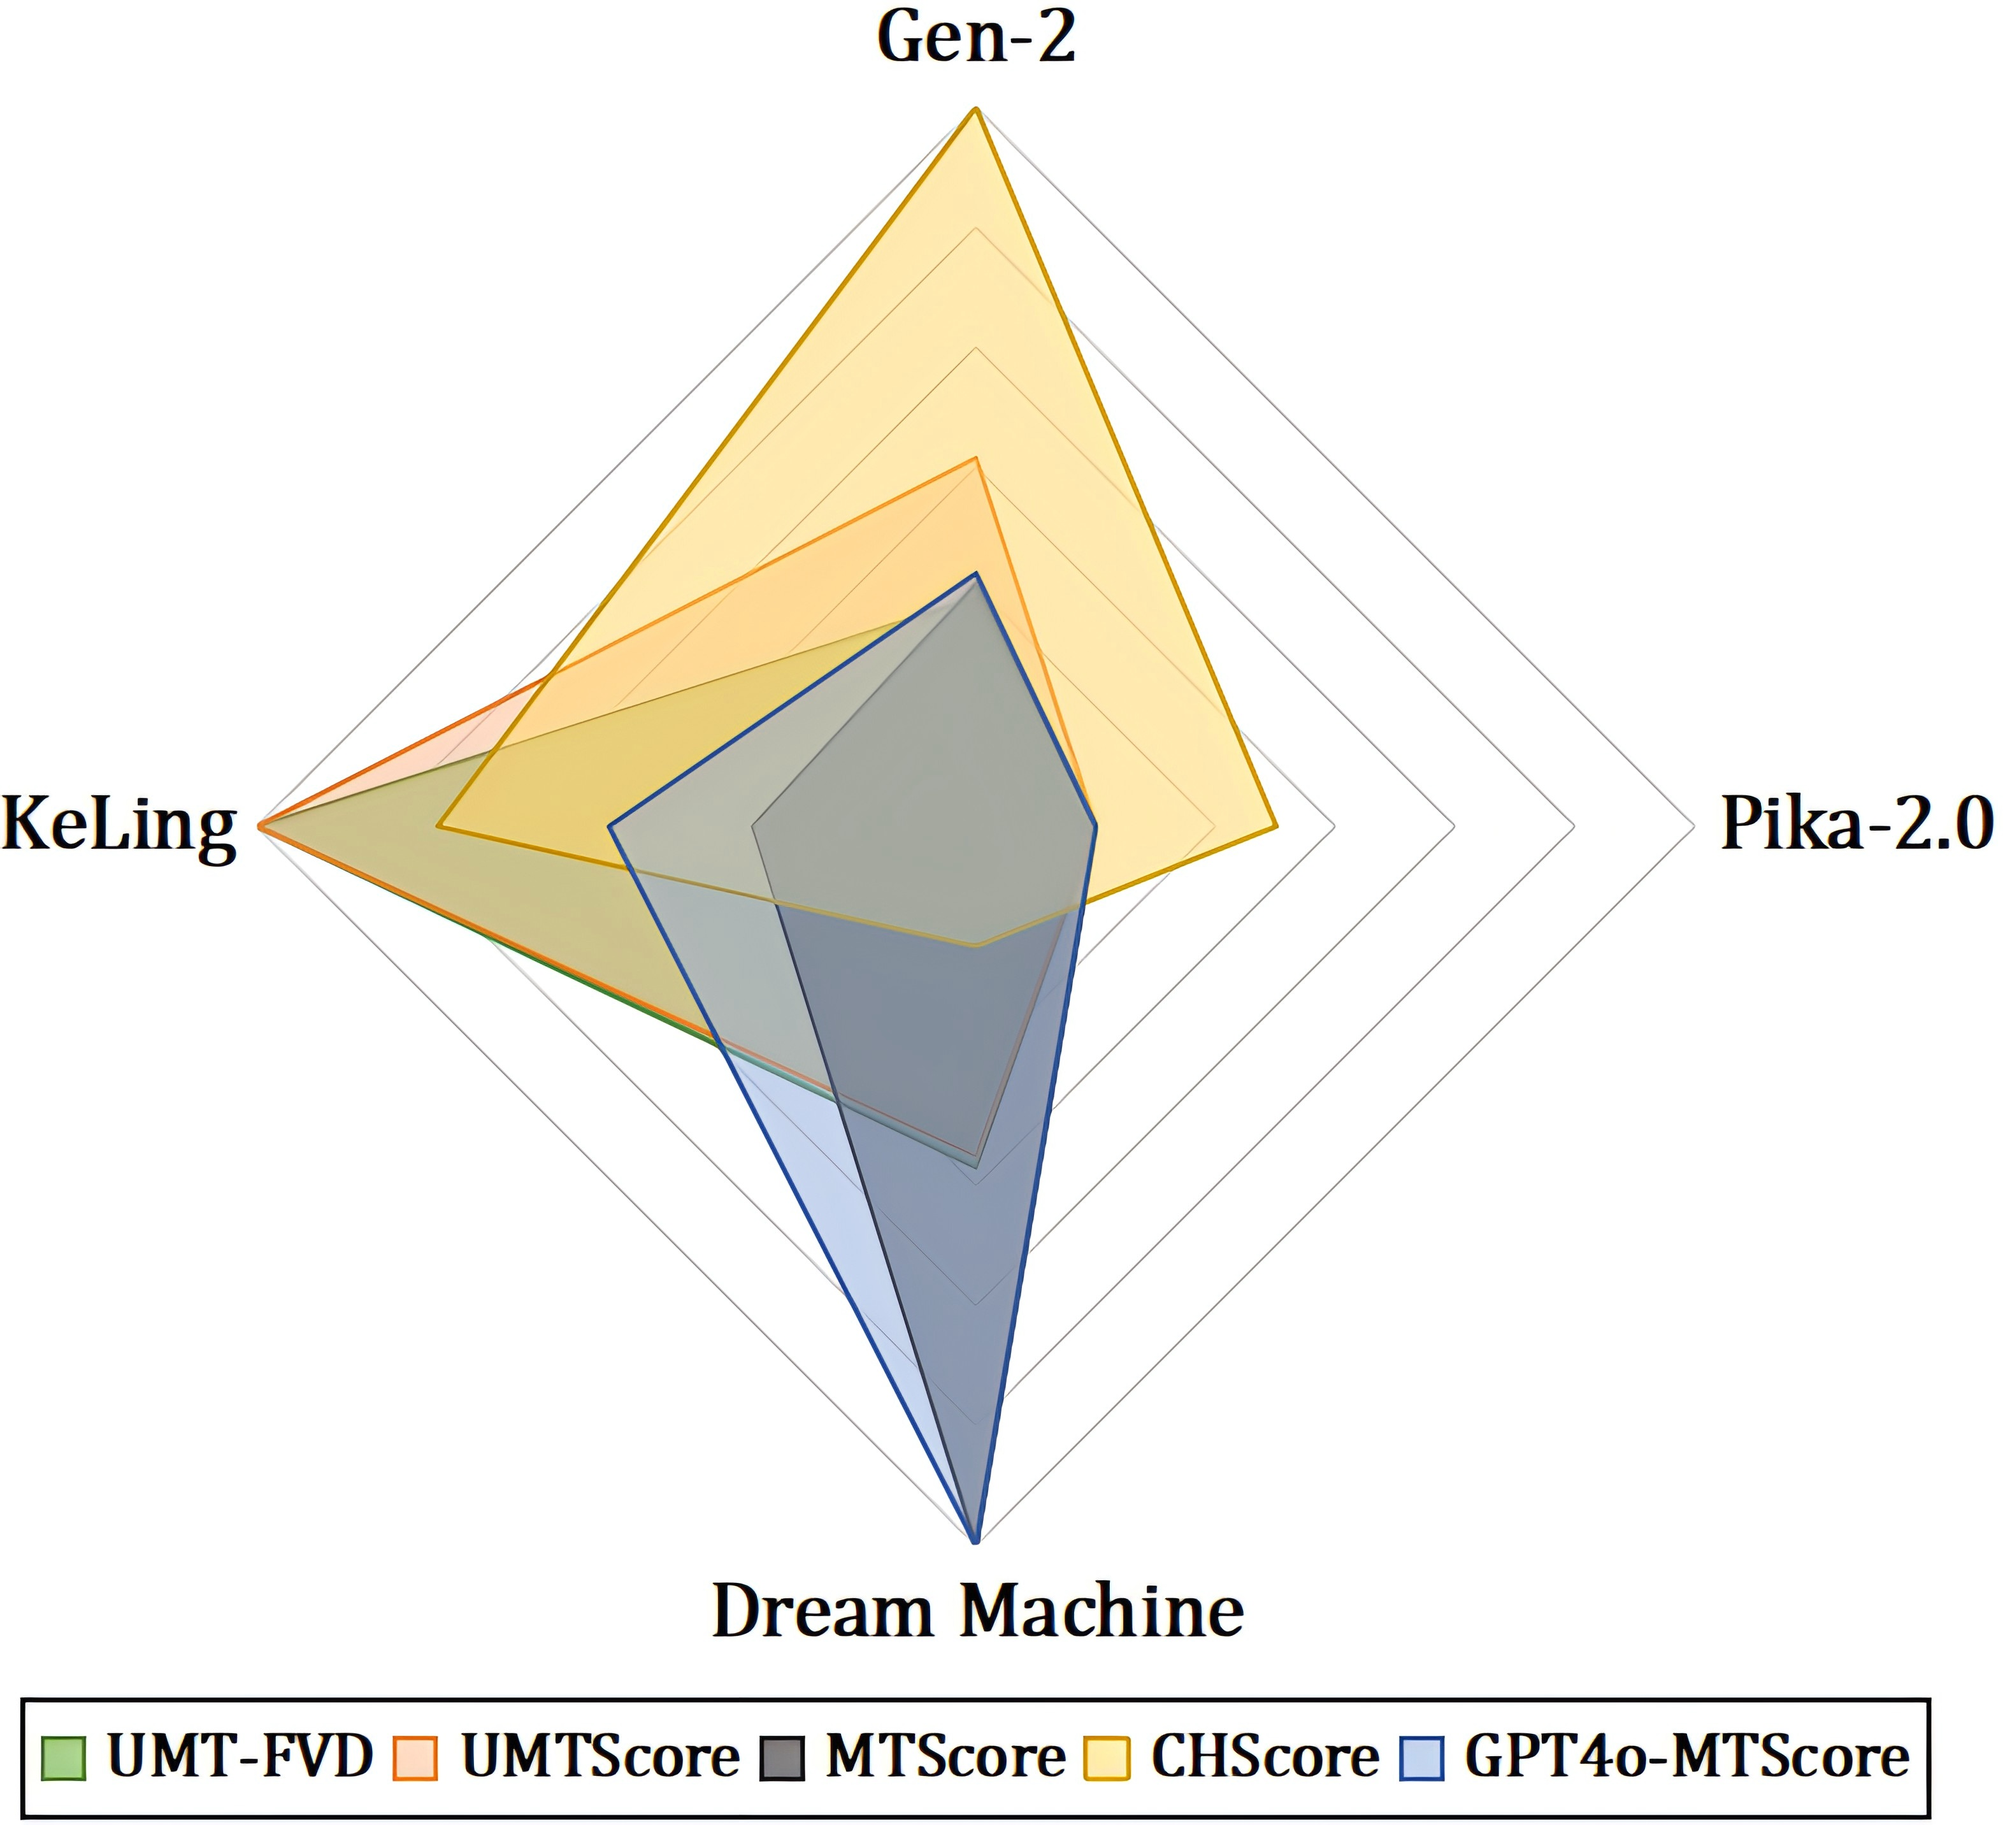
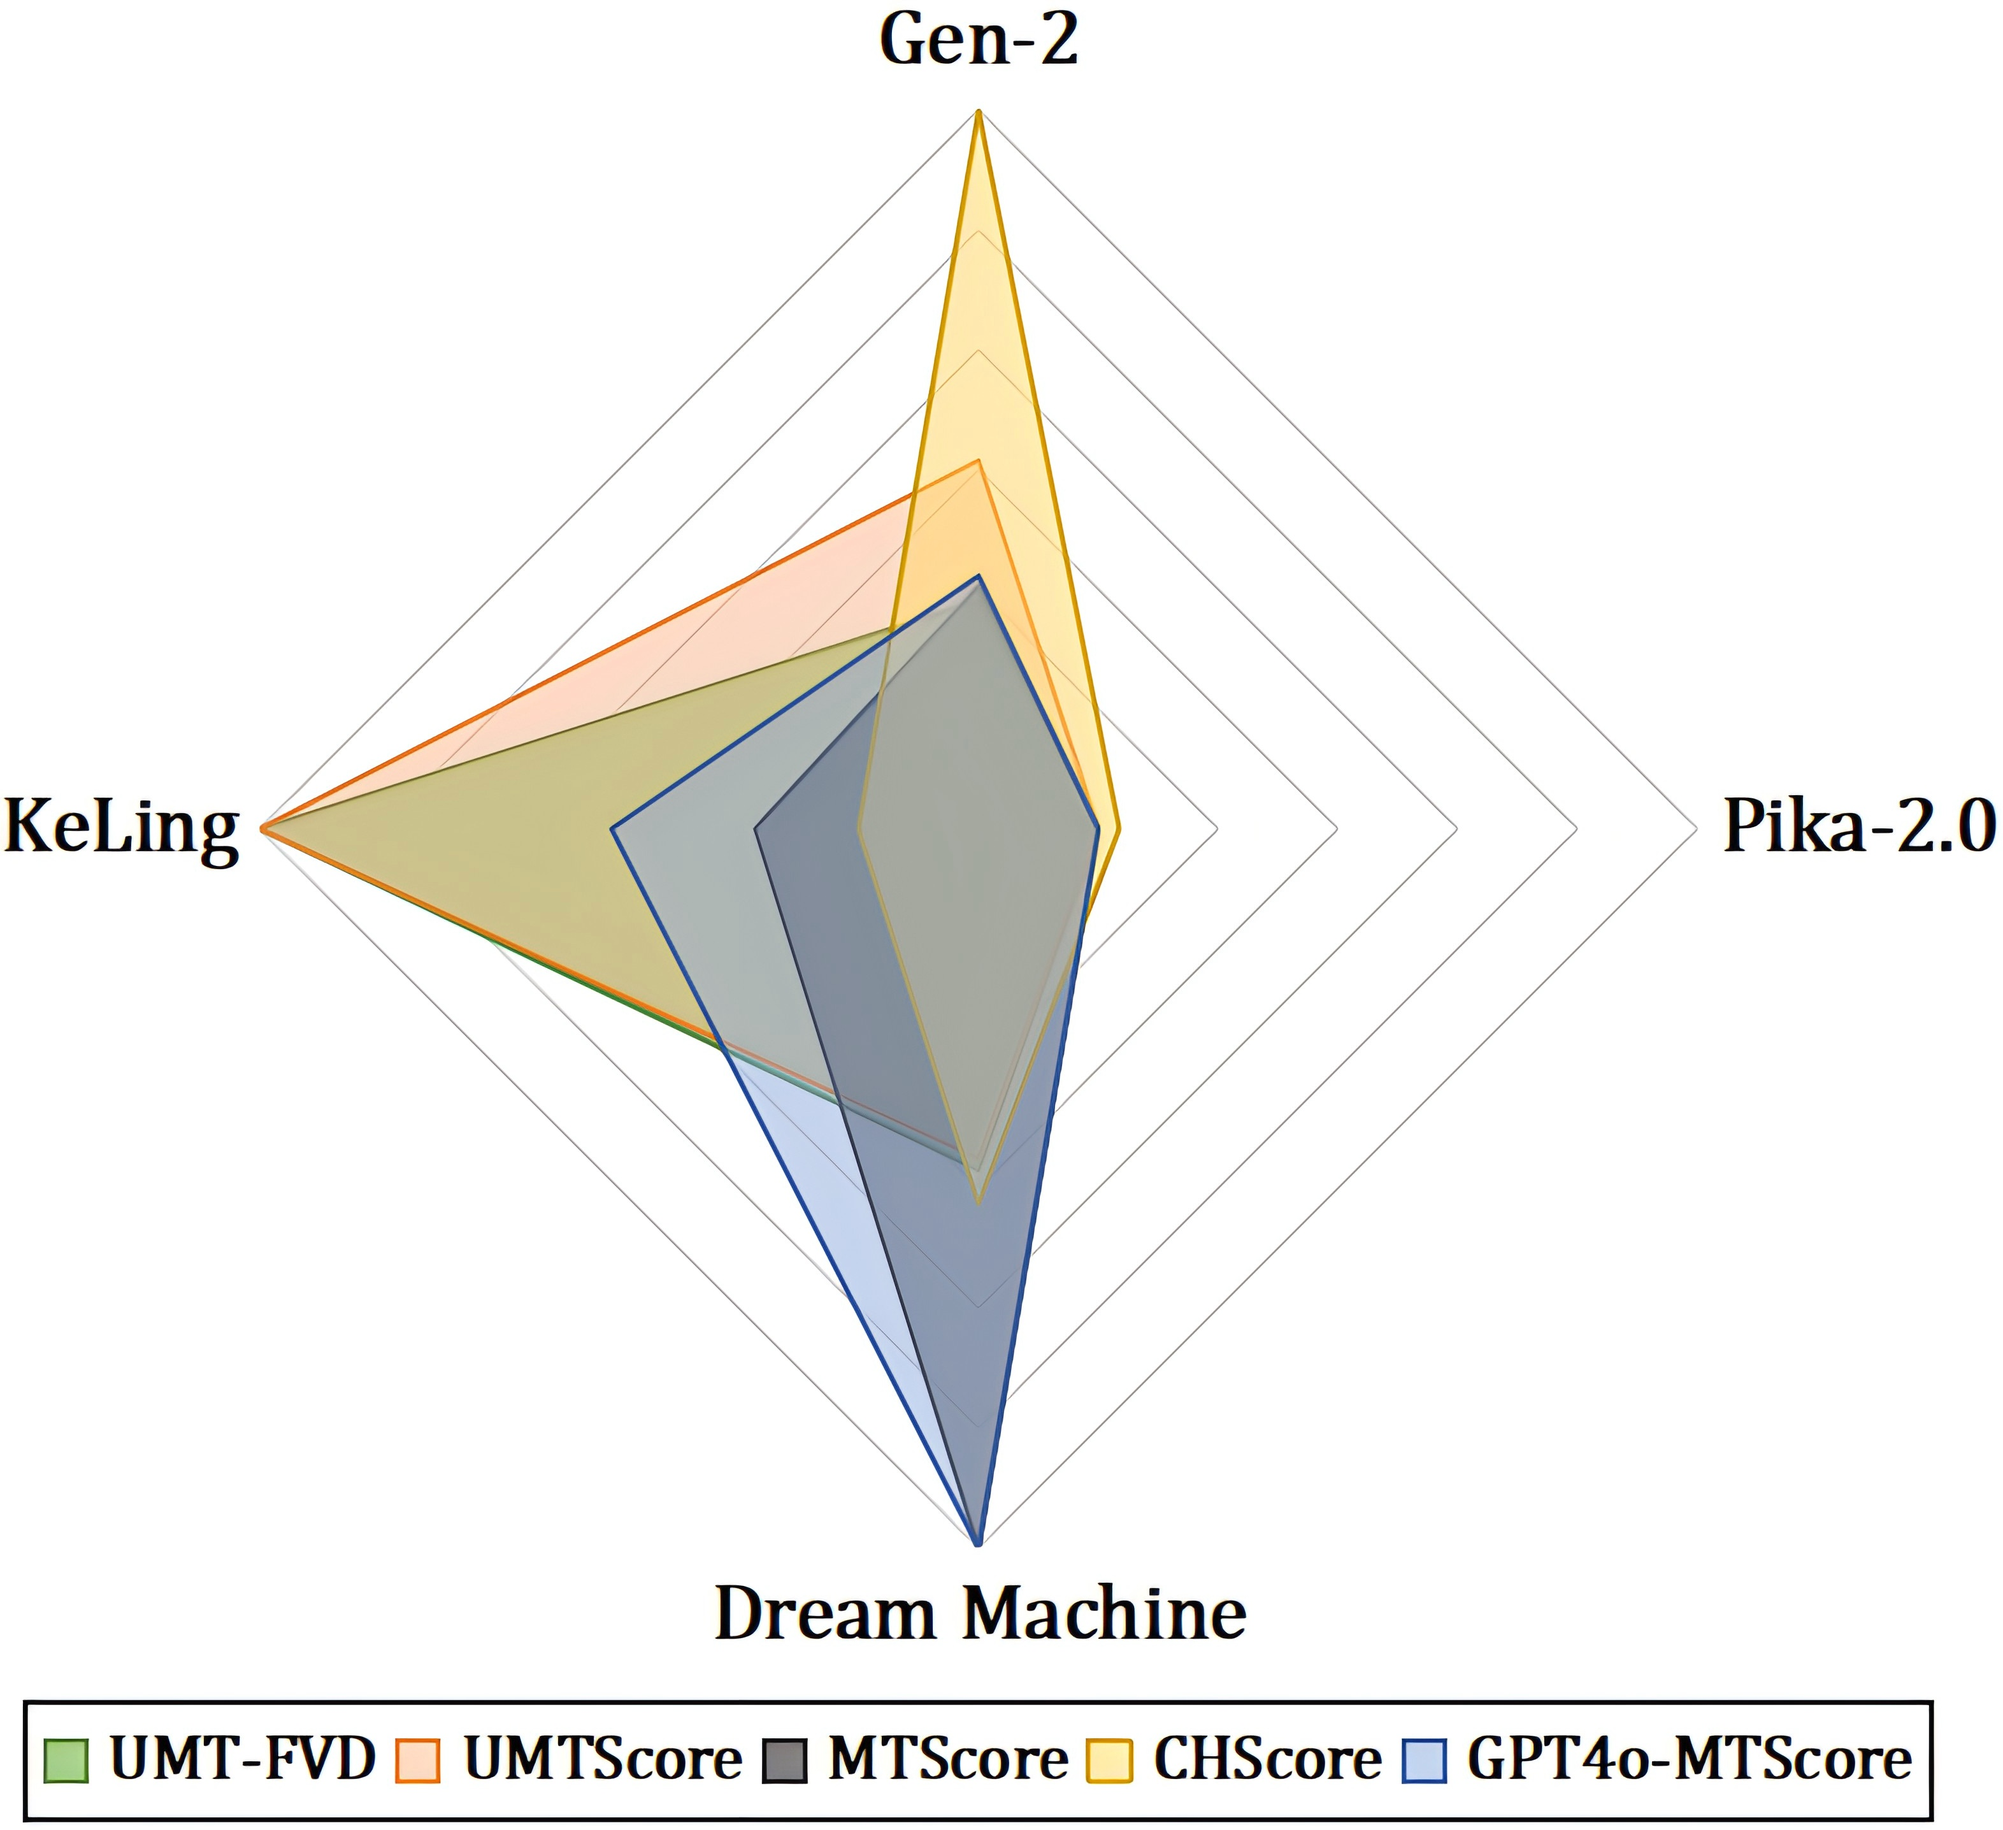
update

diff --git a/index.html b/index.html
@@ -54,6 +54,11 @@
 
           <div class="is-size-5 publication-authors">
             <div class="author-row">
+              <span class="author-block" style="font-size: 28px;">
+                ✨NeurIPS 2024 D&B Spotlight✨
+              </span>
+            </div>
+            <div class="author-row">
               <span class="author-block">
                 <a href="https://shyuanbest.github.io/">Shenghai Yuan</a><sup>1</sup>,</span>
               <span class="author-block">
@@ -440,10 +445,10 @@
       <table style="width: 100%; border-collapse: collapse; font-family: Arial, sans-serif; font-size: 14px; text-align: center;">
         <thead style="background-color: #f2f2f2; border-bottom: 2px solid #ddd;">
             <tr>
-                <th style="padding: 10px;">CHScore ≈ 10.0</th>
-                <th style="padding: 10px;">CHScore ≈ 25.0</th>
-                <th style="padding: 10px;">CHScore ≈ 50.0</th>
-                <th style="padding: 10px;">CHScore ≈ 70.0</th>
+                <th style="padding: 10px;">CHScore ≈ 40.0</th>
+                <th style="padding: 10px;">CHScore ≈ 55.0</th>
+                <th style="padding: 10px;">CHScore ≈ 80.0</th>
+                <th style="padding: 10px;">CHScore ≈ 100.0</th>
             </tr>
         </thead>
         <tbody>
@@ -501,180 +506,180 @@
               <td style="padding: 10px; font-weight: bold; vertical-align: middle;">Gen-2</td>
               <td style="padding: 10px;">
                   <img src="static/videos/D_0_0.gif" alt="Gen-2" style="width: 235px; height: 235px;">
-                  <br>MTScore=0.21, CHScore=55.80
+                  <br>MTScore=0.21, CHScore=85.80
               </td>
               <td style="padding: 10px;">
                   <img src="static/videos/D_0_1.gif" alt="Gen-2" style="width: 235px; height: 235px;">
-                  <br>MTScore=0.35, CHScore=43.03
+                  <br>MTScore=0.35, CHScore=73.03
               </td>
               <td style="padding: 10px;">
                   <img src="static/videos/D_0_2.gif" alt="Gen-2" style="width: 235px; height: 235px;">
-                  <br>MTScore=0.48, CHScore=23.96
+                  <br>MTScore=0.48, CHScore=53.96
               </td>
           </tr>
           <tr>
               <td style="padding: 10px; font-weight: bold; vertical-align: middle;">PiKa-2.0</td>
               <td style="padding: 10px;">
                   <img src="static/videos/D_1_0.gif" alt="PiKa-2.0" style="width: 235px; height: 235px;">
-                  <br>MTScore=0.20, CHScore=61.93
+                  <br>MTScore=0.20, CHScore=91.93
               </td>
               <td style="padding: 10px;">
                   <img src="static/videos/D_1_1.gif" alt="PiKa-2.0" style="width: 235px; height: 235px;">
-                  <br>MTScore=0.41, CHScore=24.77
+                  <br>MTScore=0.41, CHScore=54.77
               </td>
               <td style="padding: 10px;">
                   <img src="static/videos/D_1_2.gif" alt="PiKa-2.0" style="width: 235px; height: 235px;">
-                  <br>MTScore=0.50, CHScore=17.67
+                  <br>MTScore=0.50, CHScore=47.67
               </td>
           </tr>
           <tr>
               <td style="padding: 10px; font-weight: bold; vertical-align: middle;">KeLing</td>
               <td style="padding: 10px;">
                   <img src="static/videos/D_2_0.gif" alt="KeLing" style="width: 235px; height: 235px;">
-                  <br>MTScore=0.19, CHScore=76.32
+                  <br>MTScore=0.19, CHScore=106.32
               </td>
               <td style="padding: 10px;">
                   <img src="static/videos/D_2_1.gif" alt="KeLing" style="width: 235px; height: 235px;">
-                  <br>MTScore=0.38, CHScore=52.91
+                  <br>MTScore=0.38, CHScore=82.91
               </td>
               <td style="padding: 10px;">
                   <img src="static/videos/D_2_2.gif" alt="KeLing" style="width: 235px; height: 235px;">
-                  <br>MTScore=0.47, CHScore=18.87
+                  <br>MTScore=0.47, CHScore=48.87
               </td>
           </tr>
           <tr>
               <td style="padding: 10px; font-weight: bold; vertical-align: middle;">Dream Machine</td>
               <td style="padding: 10px;">
                   <img src="static/videos/D_3_0.gif" alt="Dream Machine" style="width: 235px; height: 235px;">
-                  <br>MTScore=0.31, CHScore=55.35
+                  <br>MTScore=0.31, CHScore=85.35
               </td>
               <td style="padding: 10px;">
                   <img src="static/videos/D_3_1.gif" alt="Dream Machine" style="width: 235px; height: 235px;">
-                  <br>MTScore=0.43, CHScore=55.15
+                  <br>MTScore=0.43, CHScore=85.15
               </td>
               <td style="padding: 10px;">
                   <img src="static/videos/D_3_2.gif" alt="Dream Machine" style="width: 235px; height: 235px;">
-                  <br>MTScore=0.54, CHScore=23.31
+                  <br>MTScore=0.54, CHScore=53.31
               </td>
           </tr>
           <tr>
               <td style="padding: 10px; font-weight: bold; vertical-align: middle;">AnimateDiff-V3</td>
               <td style="padding: 10px;">
                   <img src="static/videos/D_4_0.gif" alt="AnimateDiff-V3" style="width: 235px; height: 235px;">
-                  <br>MTScore=0.32, CHScore=17.39
+                  <br>MTScore=0.32, CHScore=47.39
               </td>
               <td style="padding: 10px;">
                   <img src="static/videos/D_4_1.gif" alt="AnimateDiff-V3" style="width: 235px; height: 235px;">
-                  <br>MTScore=0.28, CHScore=49.66
+                  <br>MTScore=0.28, CHScore=79.66
               </td>
               <td style="padding: 10px;">
                   <img src="static/videos/D_4_2.gif" alt="AnimateDiff-V3" style="width: 235px; height: 235px;">
-                  <br>MTScore=0.49, CHScore=8.24
+                  <br>MTScore=0.49, CHScore=38.24
               </td>
           </tr>
           <tr>
               <td style="padding: 10px; font-weight: bold; vertical-align: middle;">VideoCrafter2</td>
               <td style="padding: 10px;">
                   <img src="static/videos/D_5_0.gif" alt="VideoCrafter2" style="width: 235px; height: 235px;">
-                  <br>MTScore=0.27, CHScore=29.45
+                  <br>MTScore=0.27, CHScore=59.45
               </td>
               <td style="padding: 10px;">
                   <img src="static/videos/D_5_1.gif" alt="VideoCrafter2" style="width: 235px; height: 235px;">
-                  <br>MTScore=0.35, CHScore=24.14
+                  <br>MTScore=0.35, CHScore=54.14
               </td>
               <td style="padding: 10px;">
                   <img src="static/videos/D_5_2.gif" alt="VideoCrafter2" style="width: 235px; height: 235px;">
-                  <br>MTScore=0.50, CHScore=20.05
+                  <br>MTScore=0.50, CHScore=50.05
               </td>
           </tr>
           <tr>
               <td style="padding: 10px; font-weight: bold; vertical-align: middle;">MagicTime</td>
               <td style="padding: 10px;">
                   <img src="static/videos/D_6_0.gif" alt="MagicTime" style="width: 235px; height: 235px;">
-                  <br>MTScore=0.49, CHScore=33.96
+                  <br>MTScore=0.49, CHScore=63.96
               </td>
               <td style="padding: 10px;">
                   <img src="static/videos/D_6_1.gif" alt="MagicTime" style="width: 235px; height: 235px;">
-                  <br>MTScore=0.34, CHScore=14.28
+                  <br>MTScore=0.34, CHScore=44.28
               </td>
               <td style="padding: 10px;">
                   <img src="static/videos/D_6_2.gif" alt="MagicTime" style="width: 235px; height: 235px;">
-                  <br>MTScore=0.51, CHScore=33.56
+                  <br>MTScore=0.51, CHScore=73.56
               </td>
           </tr>
           <tr>
               <td style="padding: 10px; font-weight: bold; vertical-align: middle;">OpenSoraPlan v1.1</td>
               <td style="padding: 10px;">
                   <img src="static/videos/D_7_0.gif" alt="OpenSoraPlan v1.1" style="width: 235px; height: 235px;">
-                  <br>MTScore=0.17, CHScore=63.38
+                  <br>MTScore=0.17, CHScore=93.38
               </td>
               <td style="padding: 10px;">
                   <img src="static/videos/D_7_1.gif" alt="OpenSoraPlan v1.1" style="width: 235px; height: 235px;">
-                  <br>MTScore=0.18, CHScore=10.14
+                  <br>MTScore=0.18, CHScore=40.14
               </td>
               <td style="padding: 10px;">
                   <img src="static/videos/D_7_2.gif" alt="OpenSoraPlan v1.1" style="width: 235px; height: 235px;">
-                  <br>MTScore=0.31, CHScore=14.59
+                  <br>MTScore=0.31, CHScore=44.59
               </td>
           </tr>
           <tr>
               <td style="padding: 10px; font-weight: bold; vertical-align: middle;">OpenSora 1.1</td>
               <td style="padding: 10px;">
                   <img src="static/videos/D_8_0.gif" alt="OpenSora 1.1" style="width: 235px; height: 235px;">
-                  <br>MTScore=0.19, CHScore=49.39
+                  <br>MTScore=0.19, CHScore=79.39
               </td>
               <td style="padding: 10px;">
                   <img src="static/videos/D_8_1.gif" alt="OpenSora 1.1" style="width: 235px; height: 235px;">
-                  <br>MTScore=0.15, CHScore=28.01
+                  <br>MTScore=0.15, CHScore=58.01
               </td>
               <td style="padding: 10px;">
                   <img src="static/videos/D_8_2.gif" alt="OpenSora 1.1" style="width: 235px; height: 235px;">
-                  <br>MTScore=0.21, CHScore=19.07
+                  <br>MTScore=0.21, CHScore=49.07
               </td>
           </tr>
           <tr>
               <td style="padding: 10px; font-weight: bold; vertical-align: middle;">OpenSora 1.2</td>
               <td style="padding: 10px;">
                   <img src="static/videos/D_9_0.gif" alt="OpenSora 1.2" style="width: 235px; height: 235px;">
-                  <br>MTScore=0.13, CHScore=55.89
+                  <br>MTScore=0.13, CHScore=85.89
               </td>
               <td style="padding: 10px;">
                   <img src="static/videos/D_9_1.gif" alt="OpenSora 1.2" style="width: 235px; height: 235px;">
-                  <br>MTScore=0.22, CHScore=8.45
+                  <br>MTScore=0.22, CHScore=38.45
               </td>
               <td style="padding: 10px;">
                   <img src="static/videos/D_9_2.gif" alt="OpenSora 1.2" style="width: 235px; height: 235px;">
-                  <br>MTScore=0.41, CHScore=8.40
+                  <br>MTScore=0.41, CHScore=38.40
               </td>
           </tr>
           <tr>
             <td style="padding: 10px; font-weight: bold; vertical-align: middle;">EasyAnimate-V3</td>
             <td style="padding: 10px;">
                 <img src="static/videos/D_10_0.gif" alt="EasyAnimate-V3" style="width: 235px; height: 235px;">
-                <br>MTScore=0.22, CHScore=51.44
+                <br>MTScore=0.22, CHScore=81.44
             </td>
             <td style="padding: 10px;">
                 <img src="static/videos/D_10_1.gif" alt="EasyAnimate-V3" style="width: 235px; height: 235px;">
-                <br>MTScore=0.42, CHScore=11.65
+                <br>MTScore=0.42, CHScore=41.65
             </td>
             <td style="padding: 10px;">
                 <img src="static/videos/D_10_2.gif" alt="EasyAnimate-V3" style="width: 235px; height: 235px;">
-                <br>MTScore=0.44, CHScore=9.68
+                <br>MTScore=0.44, CHScore=39.68
             </td>
         </tr>
         <tr>
           <td style="padding: 10px; font-weight: bold; vertical-align: middle;">CogVideoX</td>
           <td style="padding: 10px;">
               <img src="static/videos/D_11_0.gif" alt="CogVideoX" style="width: 235px; height: 235px;">
-              <br>MTScore=0.30, CHScore=20.91
+              <br>MTScore=0.30, CHScore=50.91
           </td>
           <td style="padding: 10px;">
               <img src="static/videos/D_11_1.gif" alt="CogVideoX" style="width: 235px; height: 235px;">
-              <br>MTScore=0.45, CHScore=45.92
+              <br>MTScore=0.45, CHScore=75.92
           </td>
           <td style="padding: 10px;">
               <img src="static/videos/D_11_2.gif" alt="CogVideoX" style="width: 235px; height: 235px;">
-              <br>MTScore=0.46, CHScore=6.47
+              <br>MTScore=0.46, CHScore=36.47
           </td>
       </tr>
       </tbody>      
